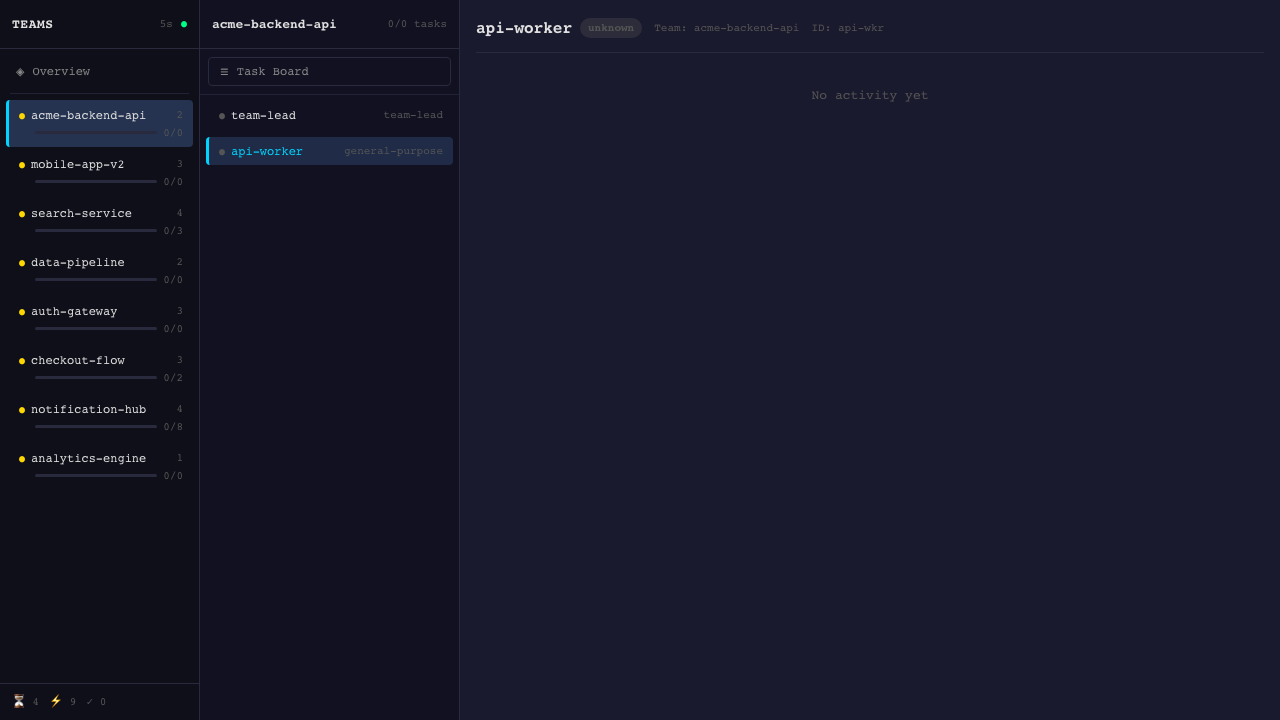
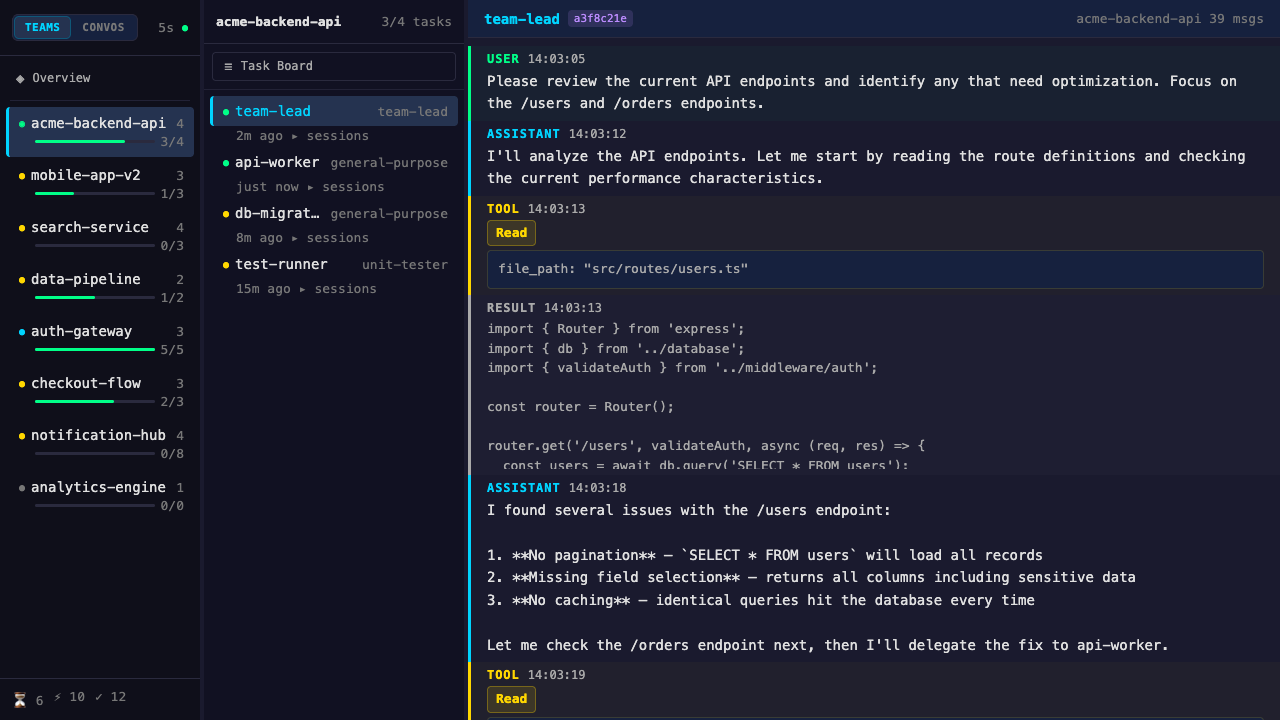
docs: 更新 demo 截圖（假資料）+ 新增 Convos 模式截圖

diff --git a/README.md b/README.md
@@ -33,6 +33,9 @@ Real-time monitoring dashboard for [Claude Code](https://claude.ai/code) agent t
 ### Agent Panel — Activity Detail
 ![Agent Panel](docs/demo-agent-panel.png)
 
+### Conversations — Project > Agents > Sessions
+![Conversations](docs/demo-convos.png)
+
 ## Quick Start
 
 ```bash

diff --git a/README.zh-TW.md b/README.zh-TW.md
@@ -33,6 +33,9 @@
 ### Agent 面板 — 活動詳情
 ![Agent Panel](docs/demo-agent-panel.png)
 
+### 對話模式 — Project > Agents > Sessions
+![Conversations](docs/demo-convos.png)
+
 ## 快速開始
 
 ```bash
